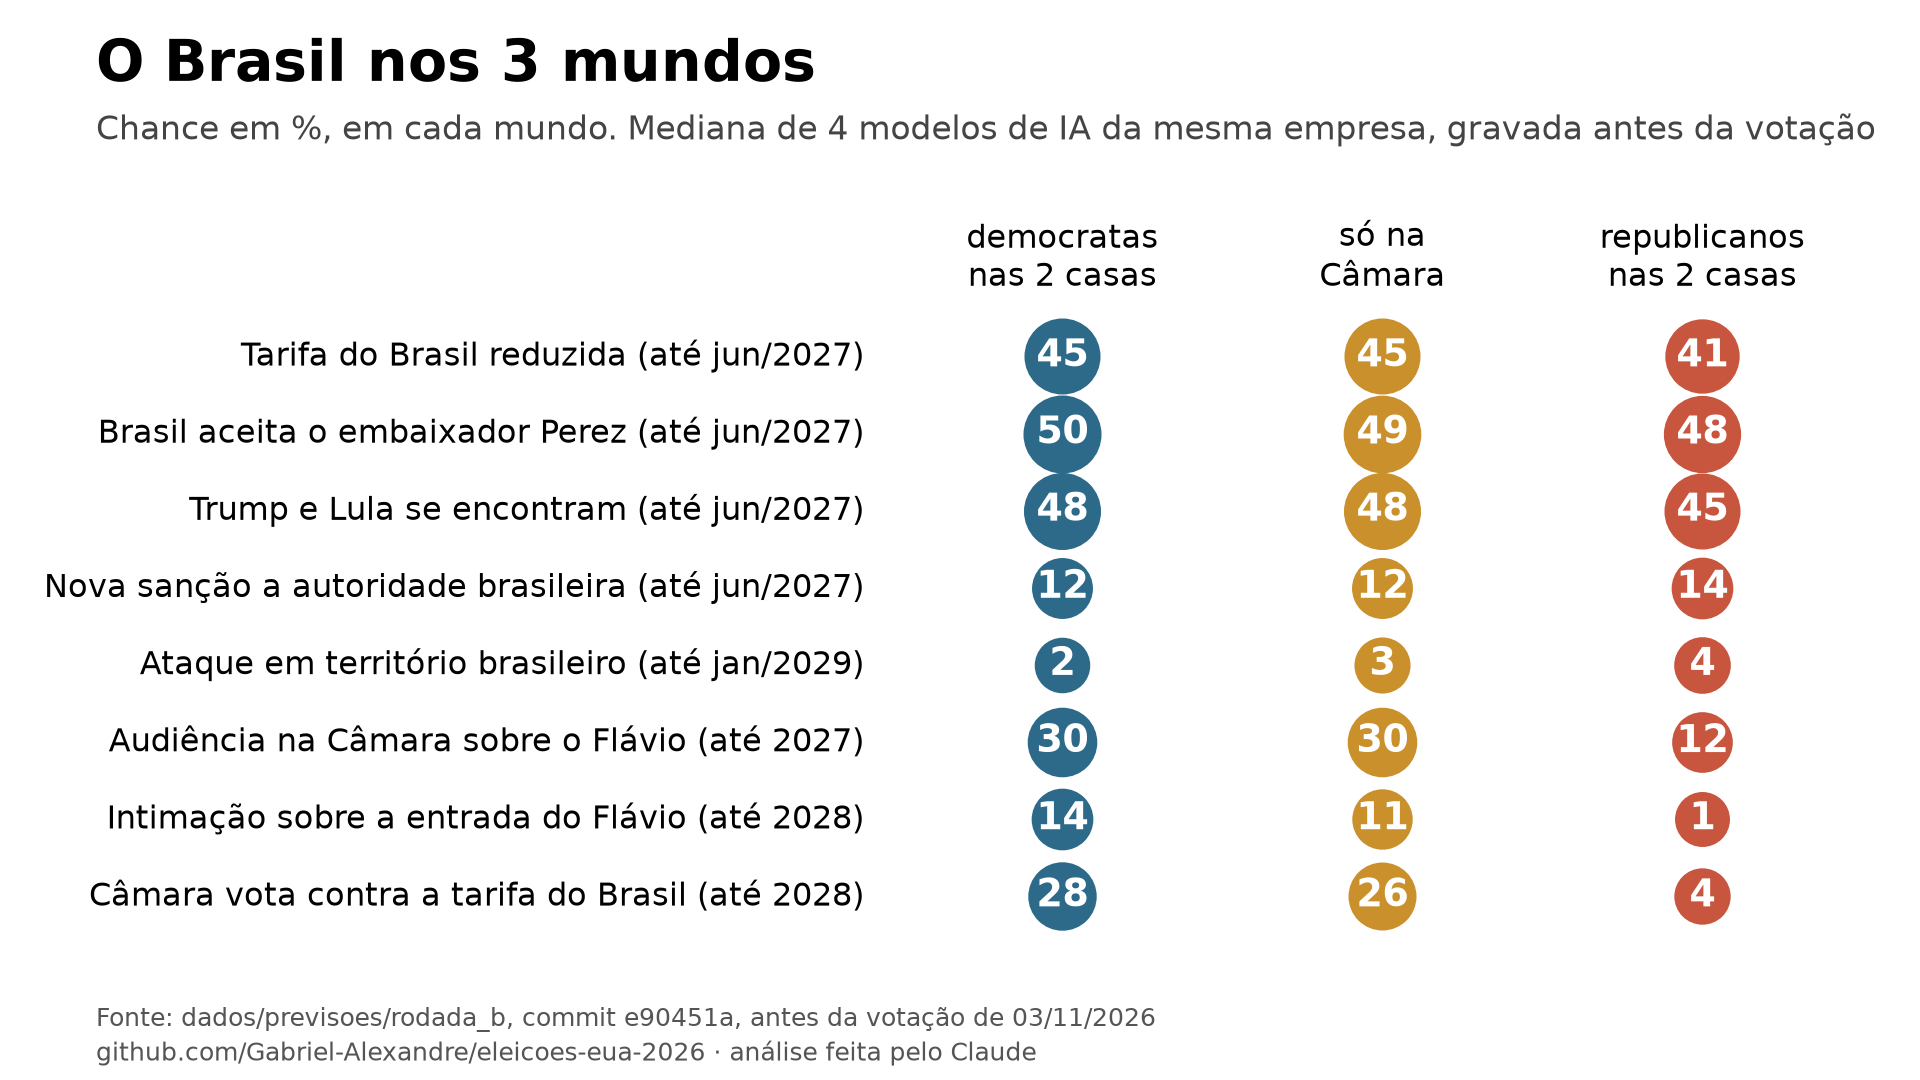
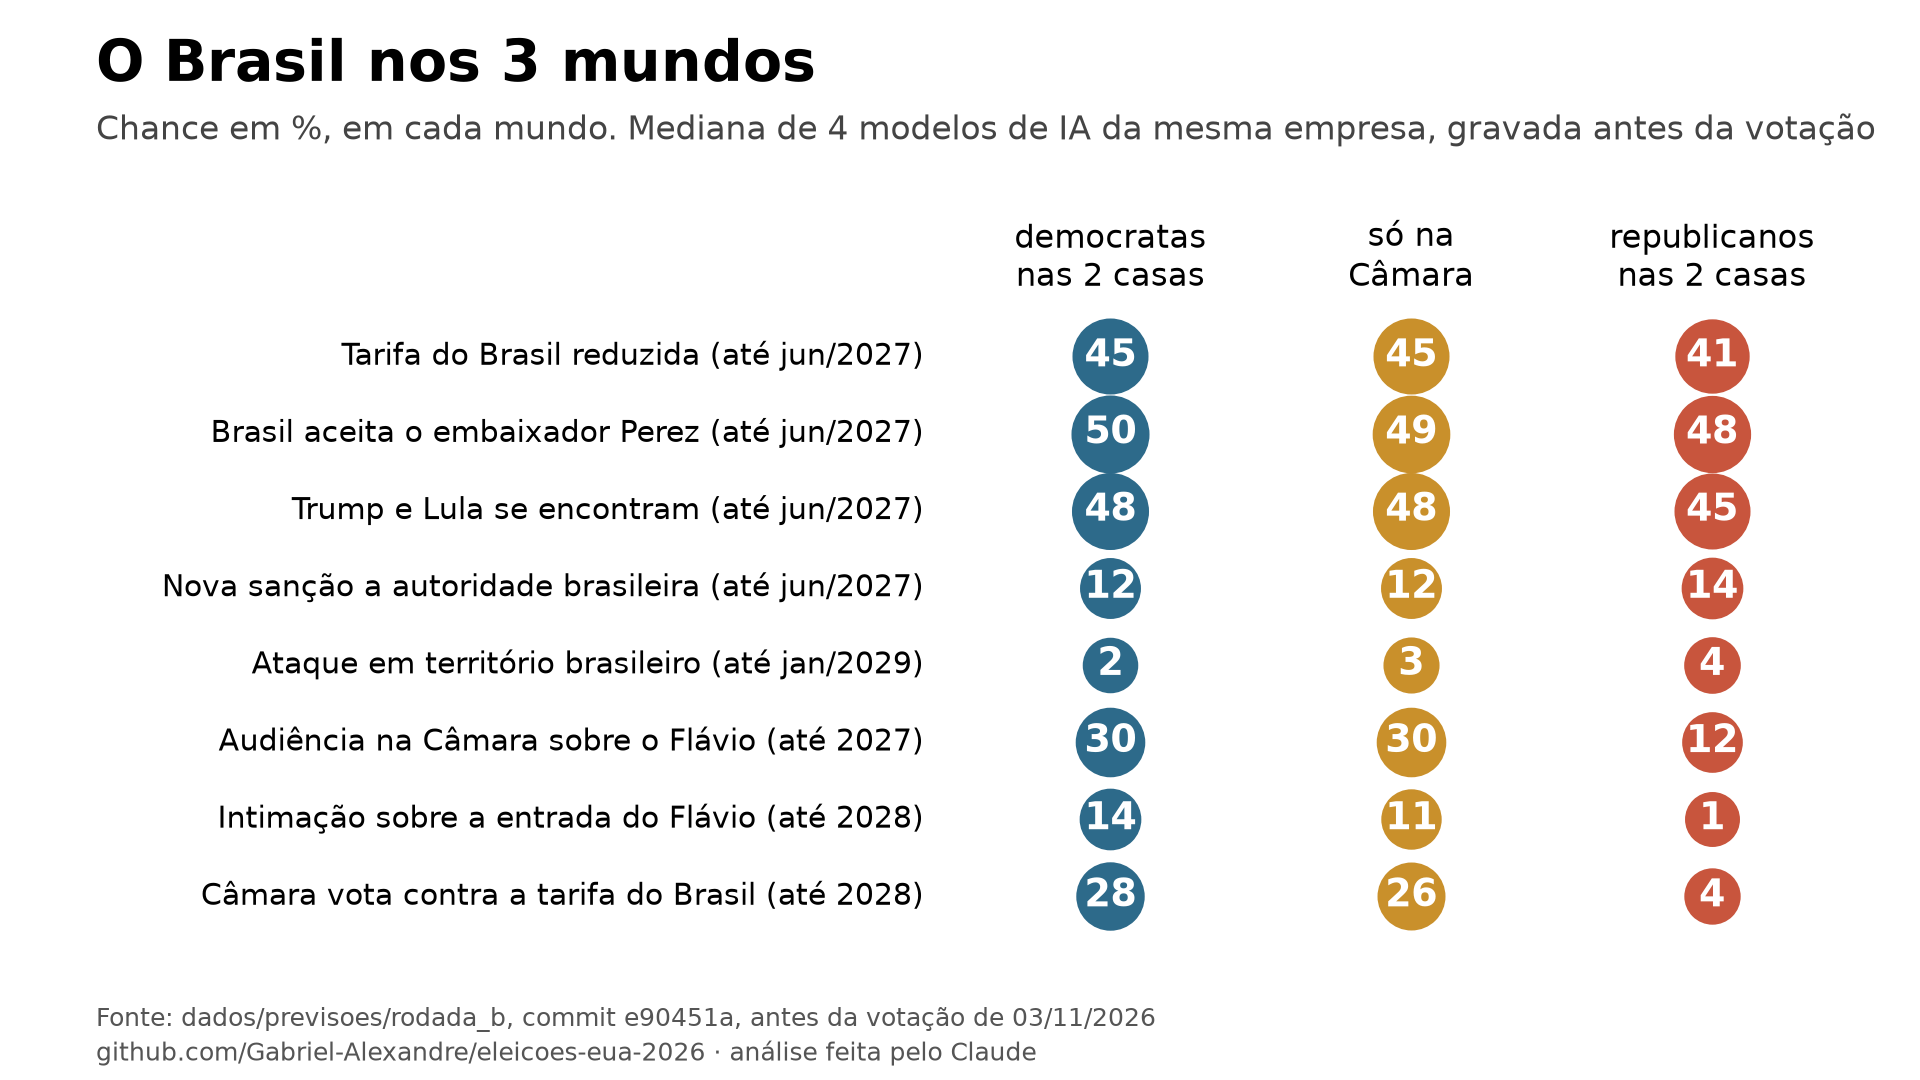
Paineis g08 a g10: margem esquerda maior e letra 18 (o rotulo da 3a linha do g10 saia cortado na borda)

diff --git a/ferramentas/graficos.py b/ferramentas/graficos.py
@@ -176,11 +176,11 @@ ROTULOS = {
 def painel(nome, titulo, ids):
     q = {p["id"]: p for p in R["previsoes"]["perguntas"]}
     fig, ax = plt.subplots(figsize=(16, 9), dpi=120)
-    fig.subplots_adjust(left=0.47, right=0.97, top=0.72, bottom=0.12)
+    fig.subplots_adjust(left=0.5, right=0.97, top=0.72, bottom=0.12)
     fig.suptitle(titulo, x=0.05, y=0.965, ha="left", fontsize=34, fontweight="bold")
     fig.text(0.05, 0.895, "Chance em %, em cada mundo. Mediana de 4 modelos de IA da mesma empresa, gravada antes da votação", ha="left", va="top", fontsize=20, color="#444444")
     for y, i in enumerate(reversed(ids)):
-        ax.text(-0.04, y, ROTULOS[i], ha="right", va="center", fontsize=19, transform=ax.get_yaxis_transform())
+        ax.text(-0.04, y, ROTULOS[i], ha="right", va="center", fontsize=18, transform=ax.get_yaxis_transform())
         for x, w, c in [(0, "DD", AZUL), (1, "DR", OURO), (2, "RR", VERM)]:
             v = q[i][w]
             ax.scatter(x, y, s=1000 + v * 22, color=c)
